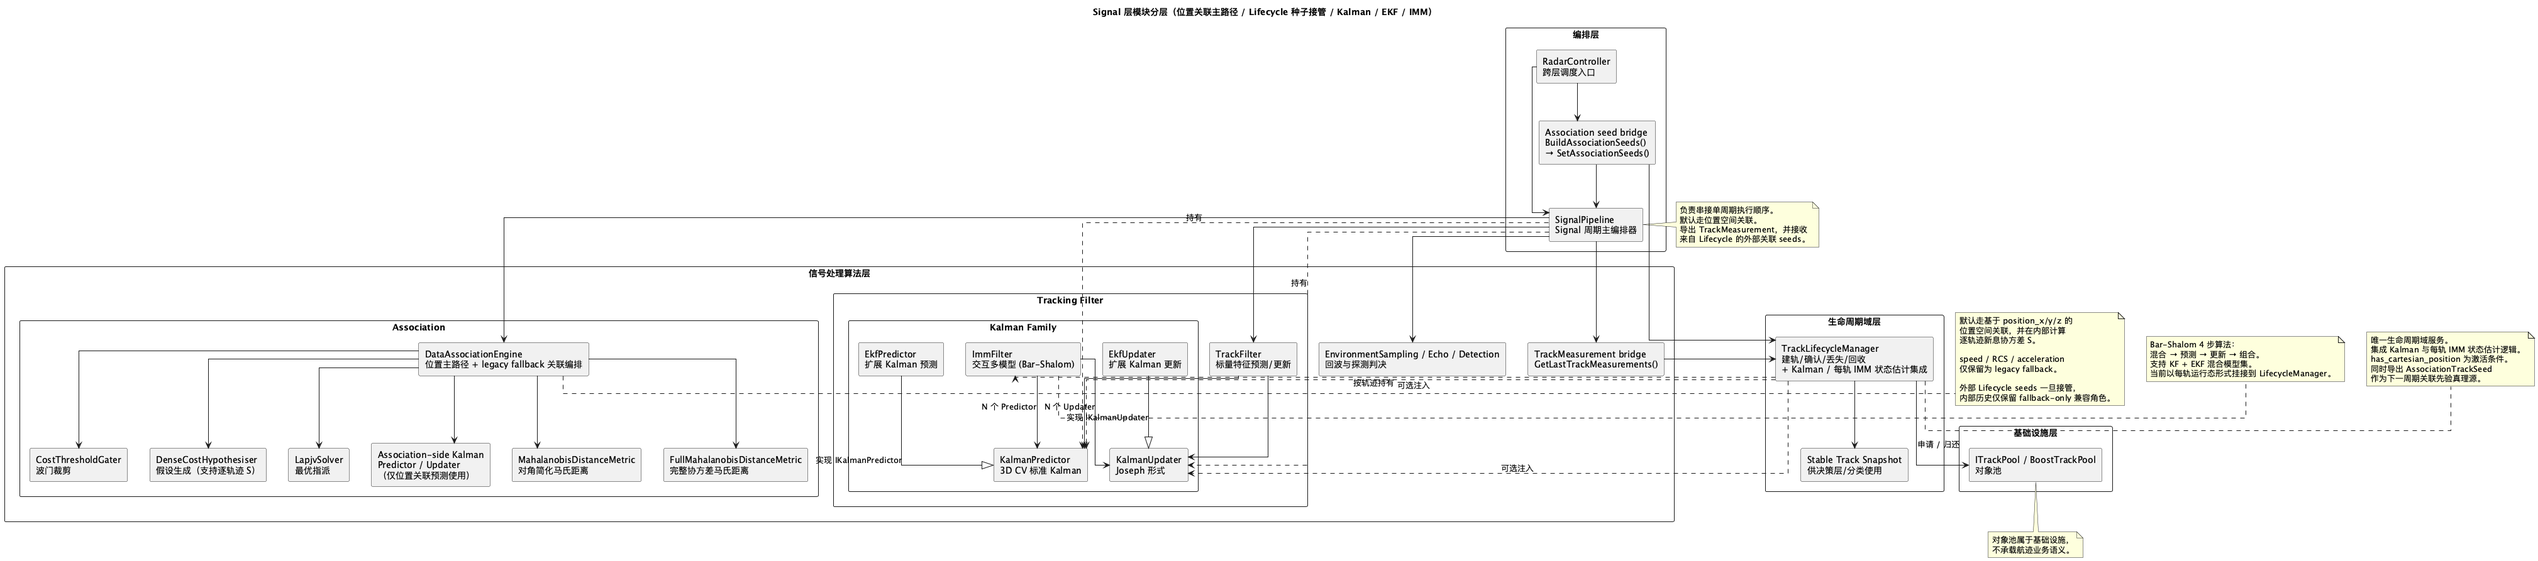
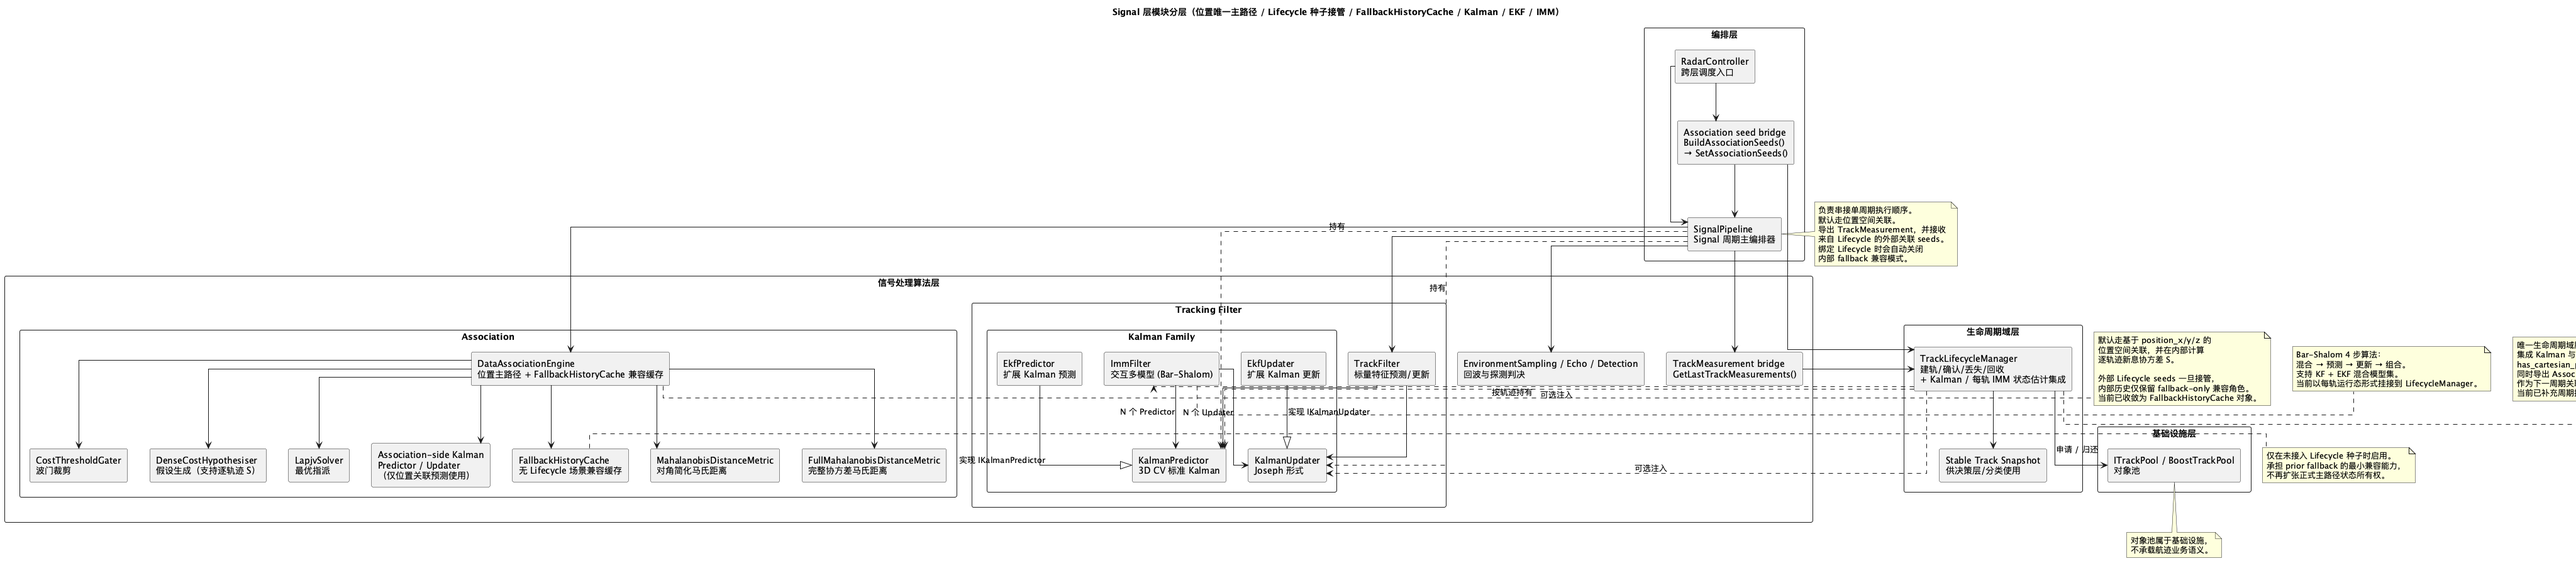
docs(signal): 追平关联兼容缓存与关键路径日志文档
- 更新 signal README，明确位置空间关联已成为唯一正式路径
- 更新 signal architecture 文档，补充 FallbackHistoryCache 兼容缓存对象语义
- 同步 external seeds 接管、internal fallback 开关、动态 measurement_covariance 已进入关联侧 S 的当前实现状态
- 更新测试统计与全量回归数量，反映新增的 association / lifecycle 回归用例
- 更新 signal module layering 与 processing flow 两张 PlantUML 图，补充关键路径摘要日志与兼容缓存节点

说明：
- 本次仅提交文档与 PlantUML 源文件追平，不包含源码行为变更

diff --git a/doc/architecture/signal/signal-architecture.md b/doc/architecture/signal/signal-architecture.md
@@ -7,9 +7,10 @@ Signal 层是机载雷达仿真系统的**信号处理核心**，负责从原始
 截至当前版本，Signal 层已经同时支持：
 
 - 基于 `TargetFeature.position_x/y/z` 的**位置空间关联主路径**（默认启用）
-- 基于 `[speed, rcs, acceleration]` 的**标量特征关联回退路径**（兼容旧实现）
 - `TrackLifecycleManager` 内部的**单模型 Kalman**与**每轨 IMM 多模型运行态**
 - `FullMahalanobisDistanceMetric` 对轨迹级新息协方差 $S$ 的直接消费
+- `FallbackHistoryCache` 作为**未接入 Lifecycle 场景**下的内部兼容先验缓存
+- `DataAssociationEngine` / `TrackLifecycleManager` / `RadarController` 的关键路径摘要日志
 
 Signal 层遵循三条关键设计原则：
 
@@ -28,7 +29,7 @@ src/airborne_radar/signal/
 │   ├── Hypothesiser.h/.cpp         #   └─ DenseCostHypothesiser（假设生成）
 │   ├── AssignmentSolver.h          #   └─ IAssignmentSolver 接口
 │   ├── LapjvSolver.h/.cpp          #   └─ LapjvSolver（Jonker-Volgenant 最优指派）
-│   └── DataAssociation.h/.cpp      #   └─ DataAssociationEngine（位置主路径 + legacy 回退关联编排器）
+│   └── DataAssociation.h/.cpp      #   └─ DataAssociationEngine（位置主路径 + FallbackHistoryCache 兼容缓存）
 │
 ├── detection/                      # [信号检测层]
 │   ├── RadarEquations.h/.cpp       #   ├─ 雷达物理方程纯函数库（回波功率、噪声底、积累增益、测量精度、检测概率）
@@ -78,21 +79,22 @@ flowchart TD
     SEEDS["Lifecycle 关联种子注入<br/>BuildAssociationSeeds() → SetAssociationSeeds()"]
     ASSOC["数据关联<br/>DataAssociationEngine"]
     POS_ASSOC["位置空间主关联<br/>position_x/y/z + 轨迹级 S"]
-    LEGACY_ASSOC["legacy 特征回退<br/>speed / RCS / acceleration"]
     FILTER["跟踪滤波<br/>TrackFilter（标量特征）"]
     MEAS["TrackMeasurement 导出<br/>GetLastTrackMeasurements()"]
     LIFECYCLE["轨迹管理<br/>TrackLifecycleManager"]
+    LOGS["关键路径摘要日志<br/>Association / Lifecycle / Controller"]
     KFIMM["状态估计<br/>Kalman / 每轨 IMM"]
     SNAPSHOT["稳定航迹快照<br/>供决策层 / 目标分类"]
 
     ENV --> ECHO --> DETECT --> ASSOC --> FILTER --> MEAS --> LIFECYCLE --> KFIMM --> SNAPSHOT
     LIFECYCLE --> SEEDS --> ASSOC
     ASSOC --> POS_ASSOC
-    ASSOC -. feature fallback .-> LEGACY_ASSOC
+    ASSOC --> LOGS
+    LIFECYCLE --> LOGS
     LIFECYCLE -->|"申请/归还"| POOL["BoostTrackPool"]
 ```
 
-图中 `SEEDS` 表示当前已经落地的 Lifecycle → Association 先验接桥；`ASSOC -> POS_ASSOC` 表示默认位置主路径，`ASSOC -. feature fallback .-> LEGACY_ASSOC` 表示当位置量测不完整或显式关闭位置路径时，关联阶段退回 legacy 标量特征空间。至于 `prior fallback`，则发生在 `DataAssociationEngine` 内部：若当前周期没有外部 seeds 接管，才退回使用内部 `fallback_history_tracks_` 兼容缓存。
+图中 `SEEDS` 表示当前已经落地的 Lifecycle → Association 先验接桥；`ASSOC -> POS_ASSOC` 表示当前唯一正式的关联主路径。至于 `prior fallback`，则发生在 `DataAssociationEngine` 内部：若当前周期没有外部 seeds 接管，且内部兼容模式已启用，才会退回使用 `FallbackHistoryCache` 作为位置空间关联先验。
 
 ### 3.1 编排机制
 
@@ -103,7 +105,7 @@ flowchart TD
 EnvironmentSamplingStage
   → EchoEstimationStage          # 线性占位符公式
     → DetectionStage              # 简单 margin 比较
-            → AssociationStage          # 默认位置空间关联（必要时回退）
+            → AssociationStage          # 默认位置空间关联
         → TrackingFilterStage
 ```
 
@@ -179,7 +181,7 @@ flowchart LR
     end
     DET["位置量测<br/>TargetFeature.position_x/y/z"] --> MODE
     EXT["external association seeds<br/>Lifecycle truth source"] --> MODE
-    FALLBACK["fallback_history_tracks_<br/>兼容缓存"] --> MODE
+    FALLBACK["FallbackHistoryCache<br/>兼容缓存对象"] --> MODE
     MEAS_COV["measurement_covariance<br/>动态量测协方差 R"] --> INNOV
     MODE --> M
     MODE -. 位置路径 .-> PRED --> INNOV -. 输出 ẑ / S .-> H
@@ -210,10 +212,12 @@ flowchart LR
 当前版本已经完成 `FullMahalanobisDistanceMetric` 与轨迹级 $S$ 的联动，但需要注意：
 
 - `RadarController` 已通过 `AssociationTrackSeed` 将 Lifecycle 侧活跃轨迹状态注入关联阶段，关联真理源正在向 `TrackLifecycleManager` 收敛
-- 关联域仍保留内部签名缓存作为无 Lifecycle 管理器场景下的兼容路径，尚未完全删除内部状态副本
+- 关联域仍保留 `FallbackHistoryCache` 作为无 Lifecycle 管理器场景下的兼容路径，尚未完全删除内部状态副本
 - `SignalPipeline` 会在 `SignalCycleContext` 中提前构造 `measurement_covariance`，供关联与 Lifecycle 更新共享同一份动态 $R$
 - `SignalPipeline` 只有在输入 `TargetFeature` 已携带 `position_x/y/z` 时，才会导出 `has_cartesian_position = true` 的 `TrackMeasurement`
 - 当成功探测目标位置量测不完整时，当前实现会直接触发契约失败
+- `RadarController` 绑定 `TrackLifecycleManager` 时，会自动关闭内部 fallback 兼容模式，使主路径明确由 external seeds 接管
+- `DataAssociationEngine` / `TrackLifecycleManager` / `RadarController` 已补充关键路径摘要日志，用于排查 prior 来源、匹配数量和生命周期推进结果
 - 因此当前位置空间关联已经是唯一正式路径，但内部状态所有权仍属于**已主化的关联能力 + 待进一步统一的数据流**
 
 #### 4.2.2 当前文档中的 fallback 术语约定
@@ -221,7 +225,7 @@ flowchart LR
 为避免后续讨论中将不同层次的“回退”混为一谈，本文当前只保留 `prior fallback` 这一术语：
 
 1. **prior fallback（先验来源回退）**
-    - 含义：当前周期没有 `TrackLifecycleManager -> BuildAssociationSeeds() -> SetAssociationSeeds()` 这条外部 seeds 接管链时，`DataAssociationEngine` 退回使用自身内部维护的 `fallback_history_tracks_` 作为关联先验。
+    - 含义：当前周期没有 `TrackLifecycleManager -> BuildAssociationSeeds() -> SetAssociationSeeds()` 这条外部 seeds 接管链时，`DataAssociationEngine` 退回使用自身内部维护的 `FallbackHistoryCache` 作为关联先验。
     - 作用：为“尚未接入 Lifecycle 真理源”的兼容场景保留最小可运行能力。
     - 非作用：一旦外部 seeds 已显式接管，即便 seeds 为空，也**不会**再回退复用内部历史缓存。
 
@@ -232,7 +236,7 @@ flowchart LR
 | 先验来源 | 匹配空间 | 语义 |
 |---------|---------|------|
 | Lifecycle external seeds | 位置空间主关联 | 理想主路径 |
-| fallback history cache | 位置空间主关联 | 尚未接入 Lifecycle，但内部缓存仍可支撑位置预测 |
+| FallbackHistoryCache | 位置空间主关联 | 尚未接入 Lifecycle，但内部兼容缓存仍可支撑位置预测 |
 
 ### 4.3 状态估计滤波器
 
@@ -354,6 +358,7 @@ classDiagram
         +RunCycle(features, env) TargetFeatureList
         +GetLastTrackMeasurements() vector~TrackMeasurement~
         +SetAssociationSeeds(seeds) void
+        +SetInternalAssociationHistoryFallbackEnabled(enabled) void
         -KalmanPredictor kalman_predictor
         -KalmanUpdater kalman_updater
     }
@@ -362,6 +367,7 @@ classDiagram
         +AssociateDetections(targets, detection_succeeded) AssociationResult
         +Associate(targets, detection_succeeded) vector~uint64_t~
         +SetAssociationSeeds(seeds) void
+        +SetInternalHistoryFallbackEnabled(enabled) void
         -IDistanceMetric metric
         -FullMahalanobisDistanceMetric full_metric
         -IGater gater
@@ -369,6 +375,7 @@ classDiagram
         -IAssignmentSolver solver
         -KalmanPredictor association_predictor
         -KalmanUpdater association_updater
+        -FallbackHistoryCache fallback_cache
     }
 
     class TrackLifecycleManager {
@@ -501,10 +508,10 @@ sequenceDiagram
 |---------|--------|---------|
 | `SignalPipelineTest` | 4 | 端到端周期处理、探测裕量衰减、TrackMeasurement 导出、默认位置关联主路径 |
 | `TrackFilterTest` | 2 | 标量特征稳定传递、损耗衰减 + 干扰惩罚 |
-| `DataAssociationEngineTest` | 9 | 稳定关联、交叉匹配、新目标分配、匹配/失配报告、位置空间关联、外部 seeds 单周期语义、空 seeds 抑制内部 fallback |
+| `DataAssociationEngineTest` | 12 | 稳定关联、交叉匹配、新目标分配、匹配/失配报告、位置空间关联、external seeds 单周期语义、空 seeds 抑制内部 fallback、兼容缓存开关与清缓存契约 |
 | `CostThresholdGaterTest` | 1 | 超阈值裁剪 |
 | `DenseCostHypothesiserTest` | 2 | 波门内假设、逐轨迹 S 注入 |
-| `TrackLifecycleManagerTest` | 3 | 确认阈值、超时回收、每轨 IMM 漏检预测 |
+| `TrackLifecycleManagerTest` | 4 | 确认阈值、超时回收、每轨 IMM 漏检预测、AssociationSeeds 导出位置与高斯状态 |
 | `CoreControllerTest` | 6 | Controller 调度、事件发布、Lifecycle 消费真实量测、RunCycle 前注入 Lifecycle seeds |
 | `KalmanPredictorTest` | 7 | 零步长恒等、位置传播、协方差增长、对称性、Q 矩阵公式 |
 | `KalmanUpdaterTest` | 8 | 协方差收缩、均值收敛、新息正确性、动态R矩阵自适应、正定性 |
@@ -516,9 +523,9 @@ sequenceDiagram
 | `RadarEquationsTest` | 8 | 回波功率手算、R⁴规律、玻尔兹曼噪声、相参/非相参积累、测距/测角精度 |
 | `SignalDetectorTest` | 4 | 高/低 SNR 探测、确定性种子、干扰降级 |
 | `SwerlingDetectionTest` | 11| Swerling 0~4 边界、极限定理、多脉冲增益平滑对比 |
-| **合计（Signal 相关 + 跨层集成）** | **77** | 上表覆盖当前 Signal 相关算法与 Controller 集成测试 |
+| **合计（Signal 相关 + 跨层集成）** | **81** | 上表覆盖当前 Signal 相关算法与 Controller 集成测试 |
 
-补充说明：当前仓库全量回归已达到 **91 / 91** 绿灯；其余测试主要覆盖决策层、事件总线与环境服务等非 Signal 专属模块。
+补充说明：当前仓库全量回归已达到 **93 / 93** 绿灯；其余测试主要覆盖决策层、事件总线与环境服务等非 Signal 专属模块。
 
 ## 9. 当前状态与待完善事项
 
@@ -532,7 +539,7 @@ sequenceDiagram
 - `TrackLifecycleManager` 中的 Kalman 集成
 - `TrackLifecycleManager` 中的每轨 IMM 运行态集成
 - `SignalPipeline` 中 Kalman 组件的配置化创建
-- `SignalPipeline` 中位置空间关联开关透传与笛卡尔位置量测导出
+- `SignalPipeline` 中内部 fallback 开关透传与笛卡尔位置量测导出
 - 物理化信号检测（`RadarEquations` + `SignalDetector`）
   - 单站雷达方程回波功率计算（对数域）
   - 接收机热噪声功率底（kTBF）
@@ -549,20 +556,21 @@ sequenceDiagram
     - `DataAssociationEngine` 支持位置空间关联模式
     - `DenseCostHypothesiser` 支持逐轨迹新息协方差注入
     - `FullMahalanobisDistanceMetric` 可直接消费轨迹级 $S$
+- Lifecycle external seeds 接桥 + `FallbackHistoryCache` 兼容缓存降格
+- `DataAssociationEngine` / `TrackLifecycleManager` / `RadarController` 关键路径摘要日志
 
 ### 待完善 🔲
 
 - 完成关联侧内部高斯状态向 `TrackLifecycleManager` 单一真源的最终收敛（当前已完成 external seeds 接桥与 fallback 降格，但尚未删除关联侧兼容状态副本）
-- 将动态量测协方差 `measurement_covariance` 直接接入位置空间关联的 $S$ 计算
-- 随位置量测输入契约继续收敛，进一步压缩 legacy 标量特征关联的兼容兜底角色，并评估其后续保留范围
+- 将关联侧内部高斯状态副本继续向 Lifecycle 单一真源收敛，评估 `FallbackHistoryCache` 的最终保留形态
 - `SignalPipeline` / `RadarController` 层面对 IMM 生命周期服务的自动装配
 - 杂波图与动态门限环境适配机制
 
 ### 当前已知限制 ⚠
 
-- 位置空间关联已是**默认主路径**，但当位置量测不完整时仍会回退到旧的标量特征关联路径；后者当前仅作为位置量测契约尚未完全收敛时的兼容兜底方案
+- 位置空间关联已是**唯一正式主路径**，成功探测目标若缺位置量测会直接失败
 - 位置空间关联当前要求输入 `TargetFeature` 已提供 `position_x / position_y / position_z`
-- 统一状态源收敛仍在进行中：Lifecycle 已开始主导关联先验输入，但 `DataAssociationEngine` 仍保留兼容性的高斯状态缓存
-- 动态量测协方差当前已用于 Lifecycle / Kalman / EKF 更新阶段，但尚未直接进入 `DataAssociationEngine` 的位置空间关联 $S$ 计算
-- 一旦 `RadarController` / `SignalPipeline` 已显式注入 external association seeds，则即便 seeds 为空，也表示 Lifecycle 当前无可供关联的活跃轨迹；此时关联侧不会再回退复用内部 `fallback_history_tracks_`
+- 统一状态源收敛仍在进行中：Lifecycle 已开始主导关联先验输入，但 `DataAssociationEngine` 仍保留兼容性的 `FallbackHistoryCache` 高斯状态缓存
+- 动态量测协方差当前已直接进入 `DataAssociationEngine` 的位置空间关联 $S$ 计算，并与 Lifecycle / Kalman / EKF 更新共享同一份动态 $R$
+- 一旦 `RadarController` / `SignalPipeline` 已显式注入 external association seeds，则即便 seeds 为空，也表示 Lifecycle 当前无可供关联的活跃轨迹；此时关联侧不会再回退复用内部 `FallbackHistoryCache`
 - `SignalPipeline` 当前只负责导出位置量测与位置关联配置；`TrackLifecycleManager` 的 IMM 实例化仍由上层显式创建/注入

diff --git a/doc/architecture/signal/README.md b/doc/architecture/signal/README.md
@@ -4,11 +4,12 @@ Signal 层是机载雷达仿真系统的信号处理核心，负责 **探测 →
 
 当前文档已同步到以下实现状态：
 
-- 位置空间关联已成为默认主路径，标量特征关联保留为兼容回退路径
+- 位置空间关联已成为唯一正式路径，成功探测目标缺位置量测时直接失败
 - `FullMahalanobisDistanceMetric` 支持逐轨迹新息协方差 $S$ 联动
 - `TrackLifecycleManager` 已支持每轨 IMM 运行态
 - `RadarController` 会在每周期开始前把 Lifecycle 导出的关联种子注入 `SignalPipeline`
-- 文档明确区分“已实现能力”和“尚待统一的数据流边界”
+- `DataAssociationEngine` 已将内部 fallback history 收敛为 `FallbackHistoryCache` 兼容缓存对象
+- `DataAssociationEngine` / `TrackLifecycleManager` / `RadarController` 已补充关键路径摘要日志
 
 ## 文件说明
 
@@ -38,7 +39,7 @@ Signal 层是机载雷达仿真系统的信号处理核心，负责 **探测 →
 
 ```
 Level 0: TrackFilter（标量特征的最小预测/更新）
-Level 1: DataAssociationEngine（位置主路径 + legacy 标量回退，位置路径支持轨迹级 S）
+Level 1: DataAssociationEngine（位置唯一主路径 + FallbackHistoryCache 兼容缓存，支持轨迹级 S）
 Level 2: KalmanPredictor + KalmanUpdater（标准线性 Kalman，3D CV）
 Level 3: EkfPredictor + EkfUpdater（扩展 Kalman，非线性模型支持）
 Level 4: ImmFilter（交互多模型，Bar-Shalom 4 步算法）
